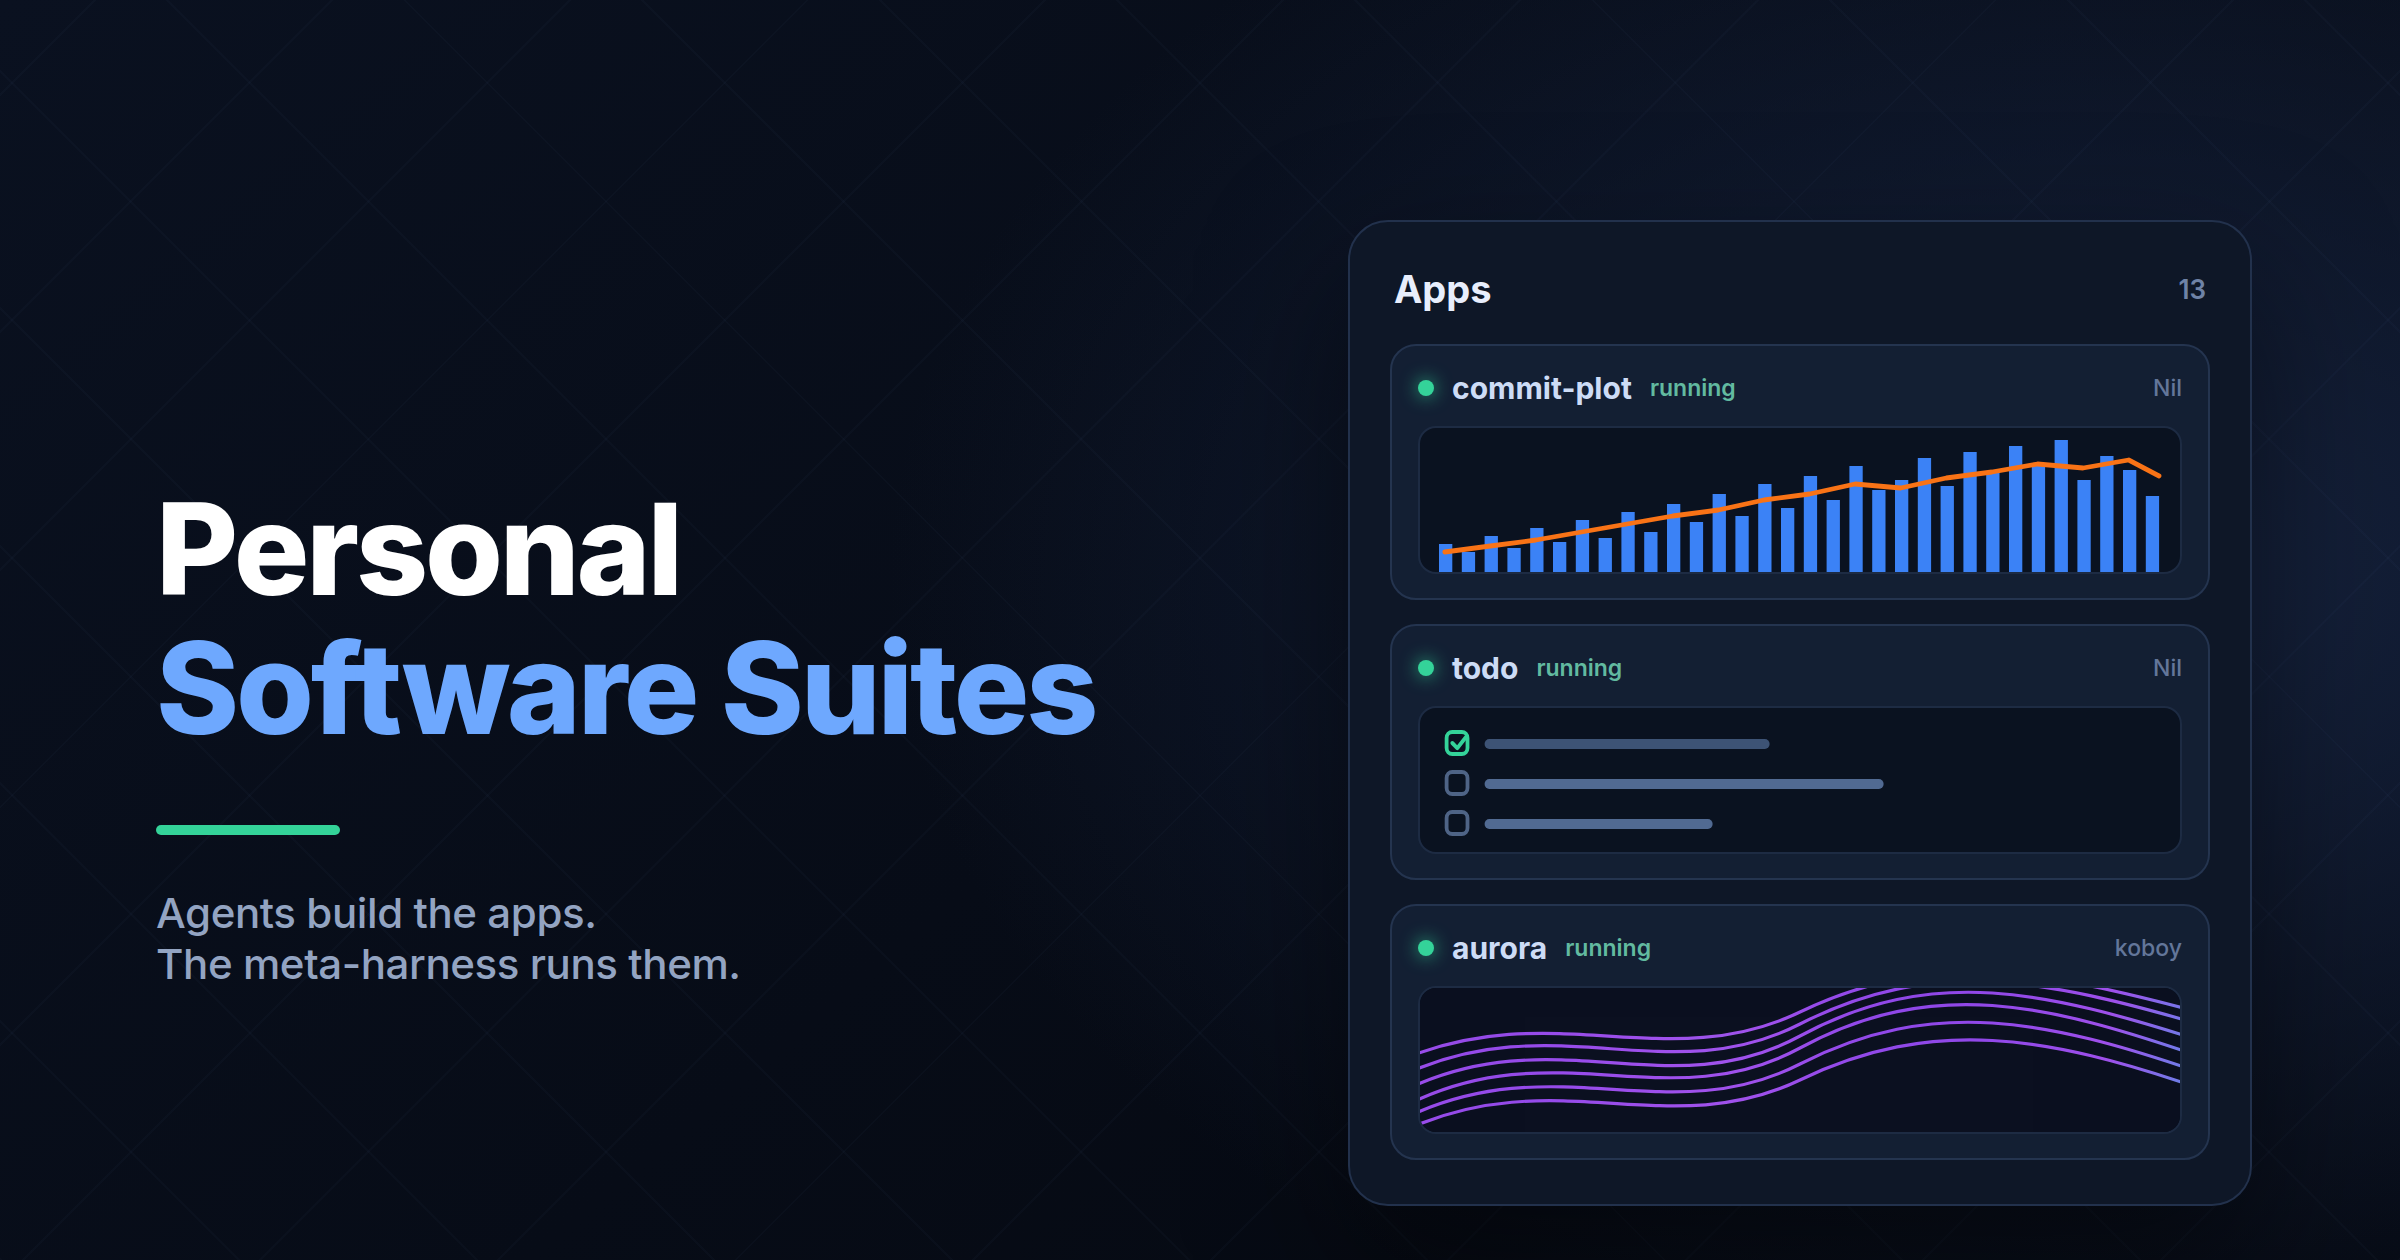
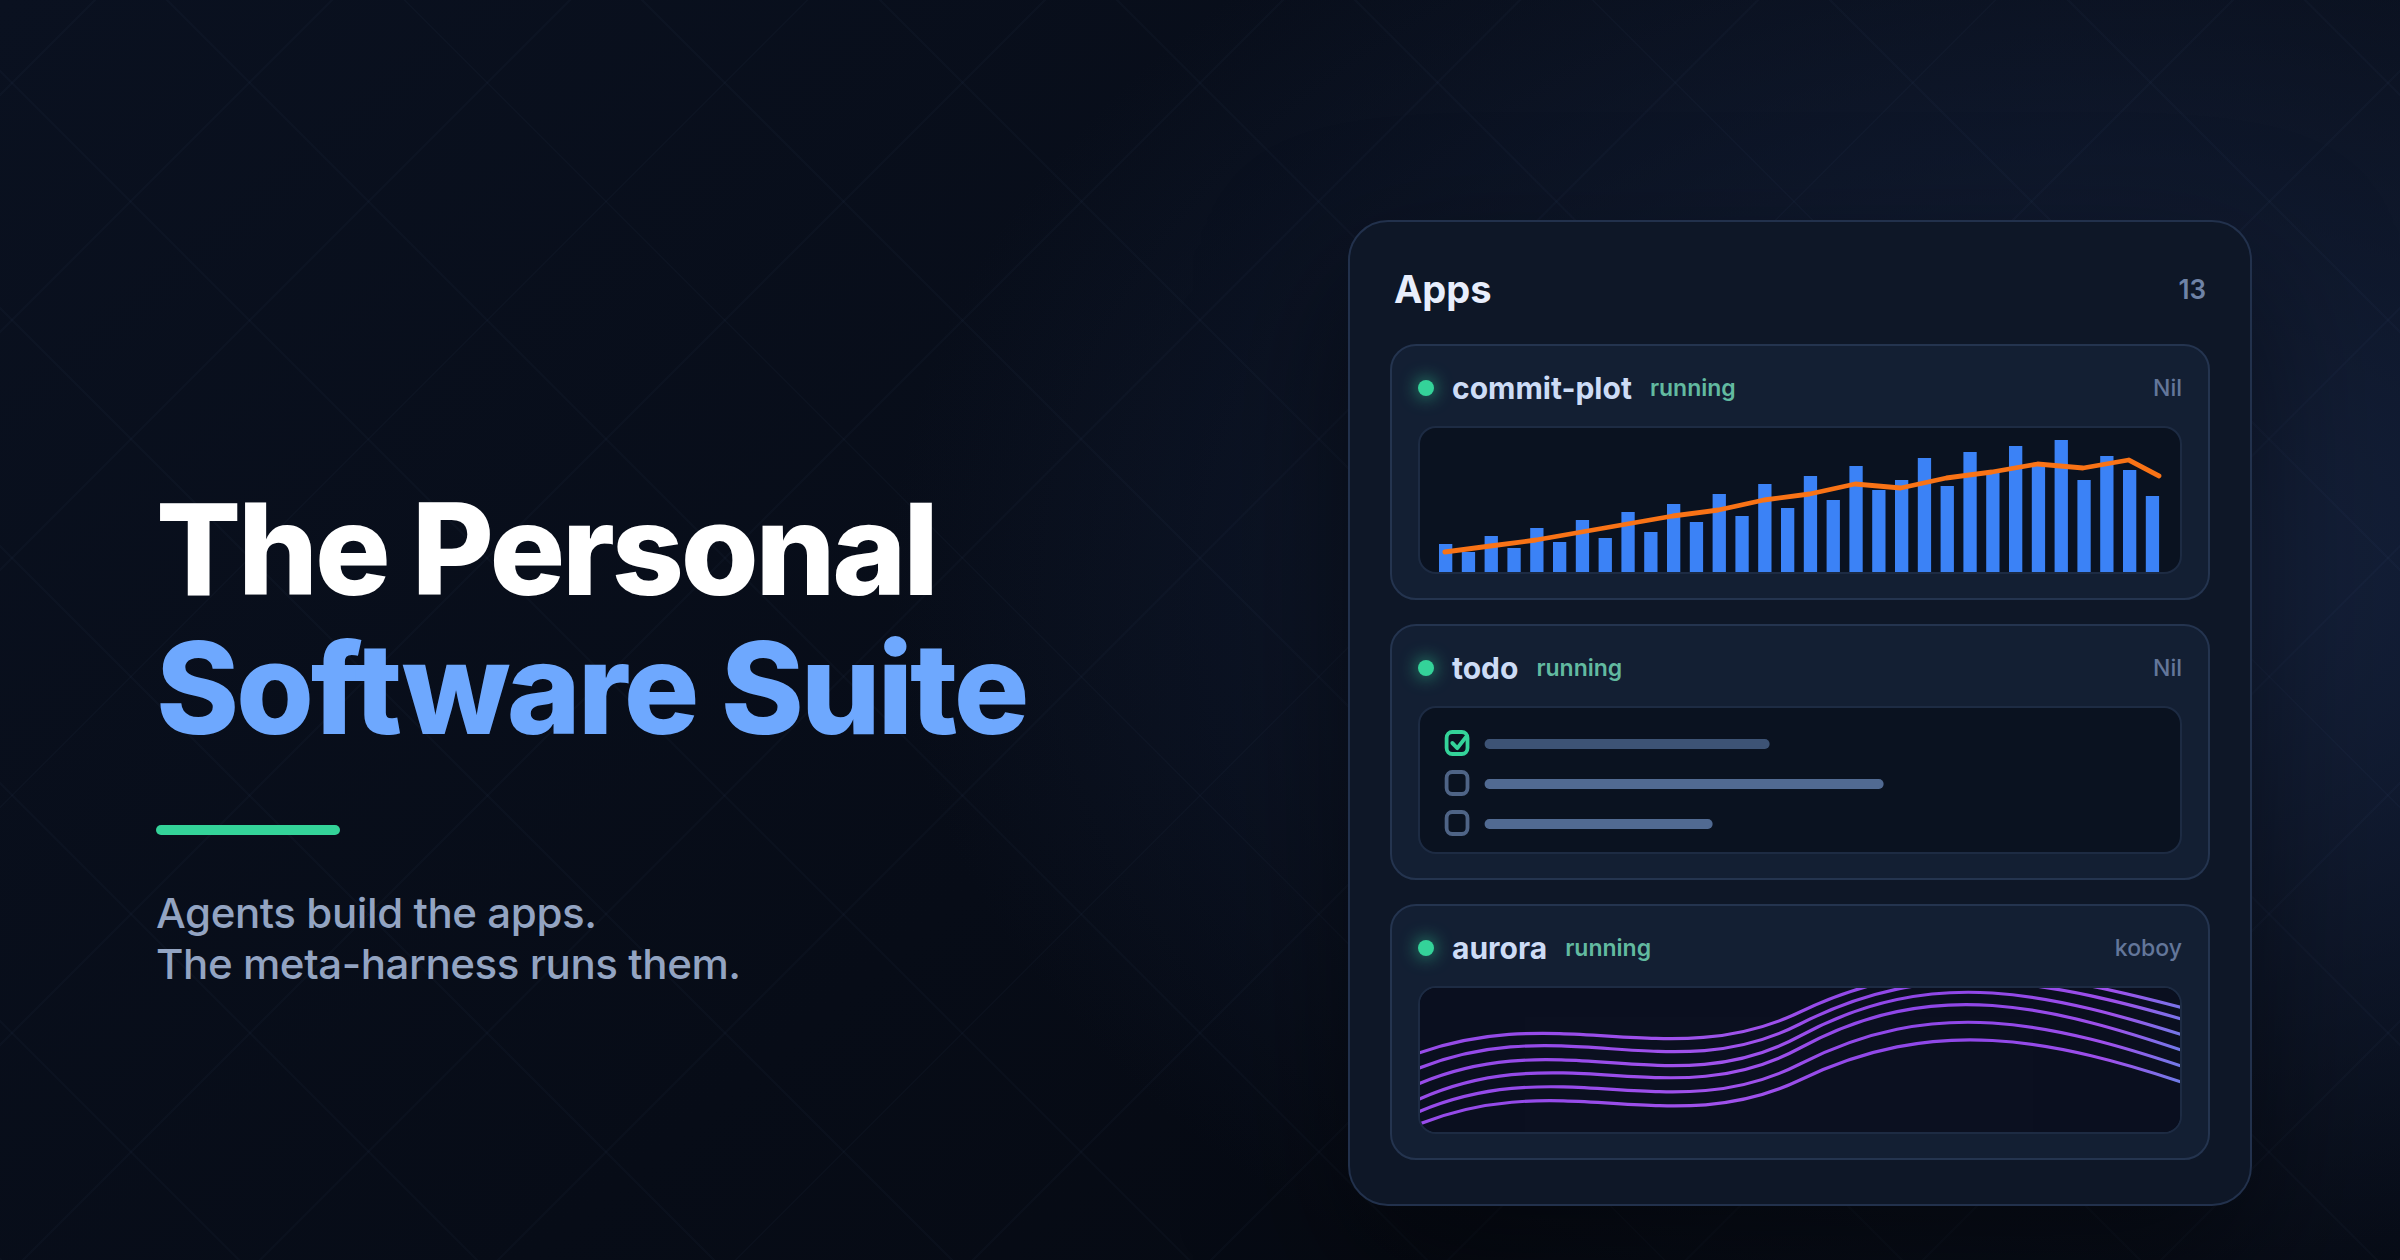
Blog: match the cover title to the post title
The post is "The Personal Software Suite"; the cover still read
"Personal Software Suites".

Changed region(s): [[0.0625, 0.4024, 0.4062, 0.4952], [0.4062, 0.5262, 0.4688, 0.5881]]

diff --git a/_source_assets/personal_software_suites_cover.html b/_source_assets/personal_software_suites_cover.html
@@ -50,7 +50,7 @@
 <body>
 <div id="card">
   <div class="left">
-    <div class="title">Personal<br/><span class="accent">Software Suites</span></div>
+    <div class="title">The Personal<br/><span class="accent">Software Suite</span></div>
     <div class="rule"></div>
     <div class="sub">Agents build the apps.<br/>The meta-harness runs them.</div>
   </div>
